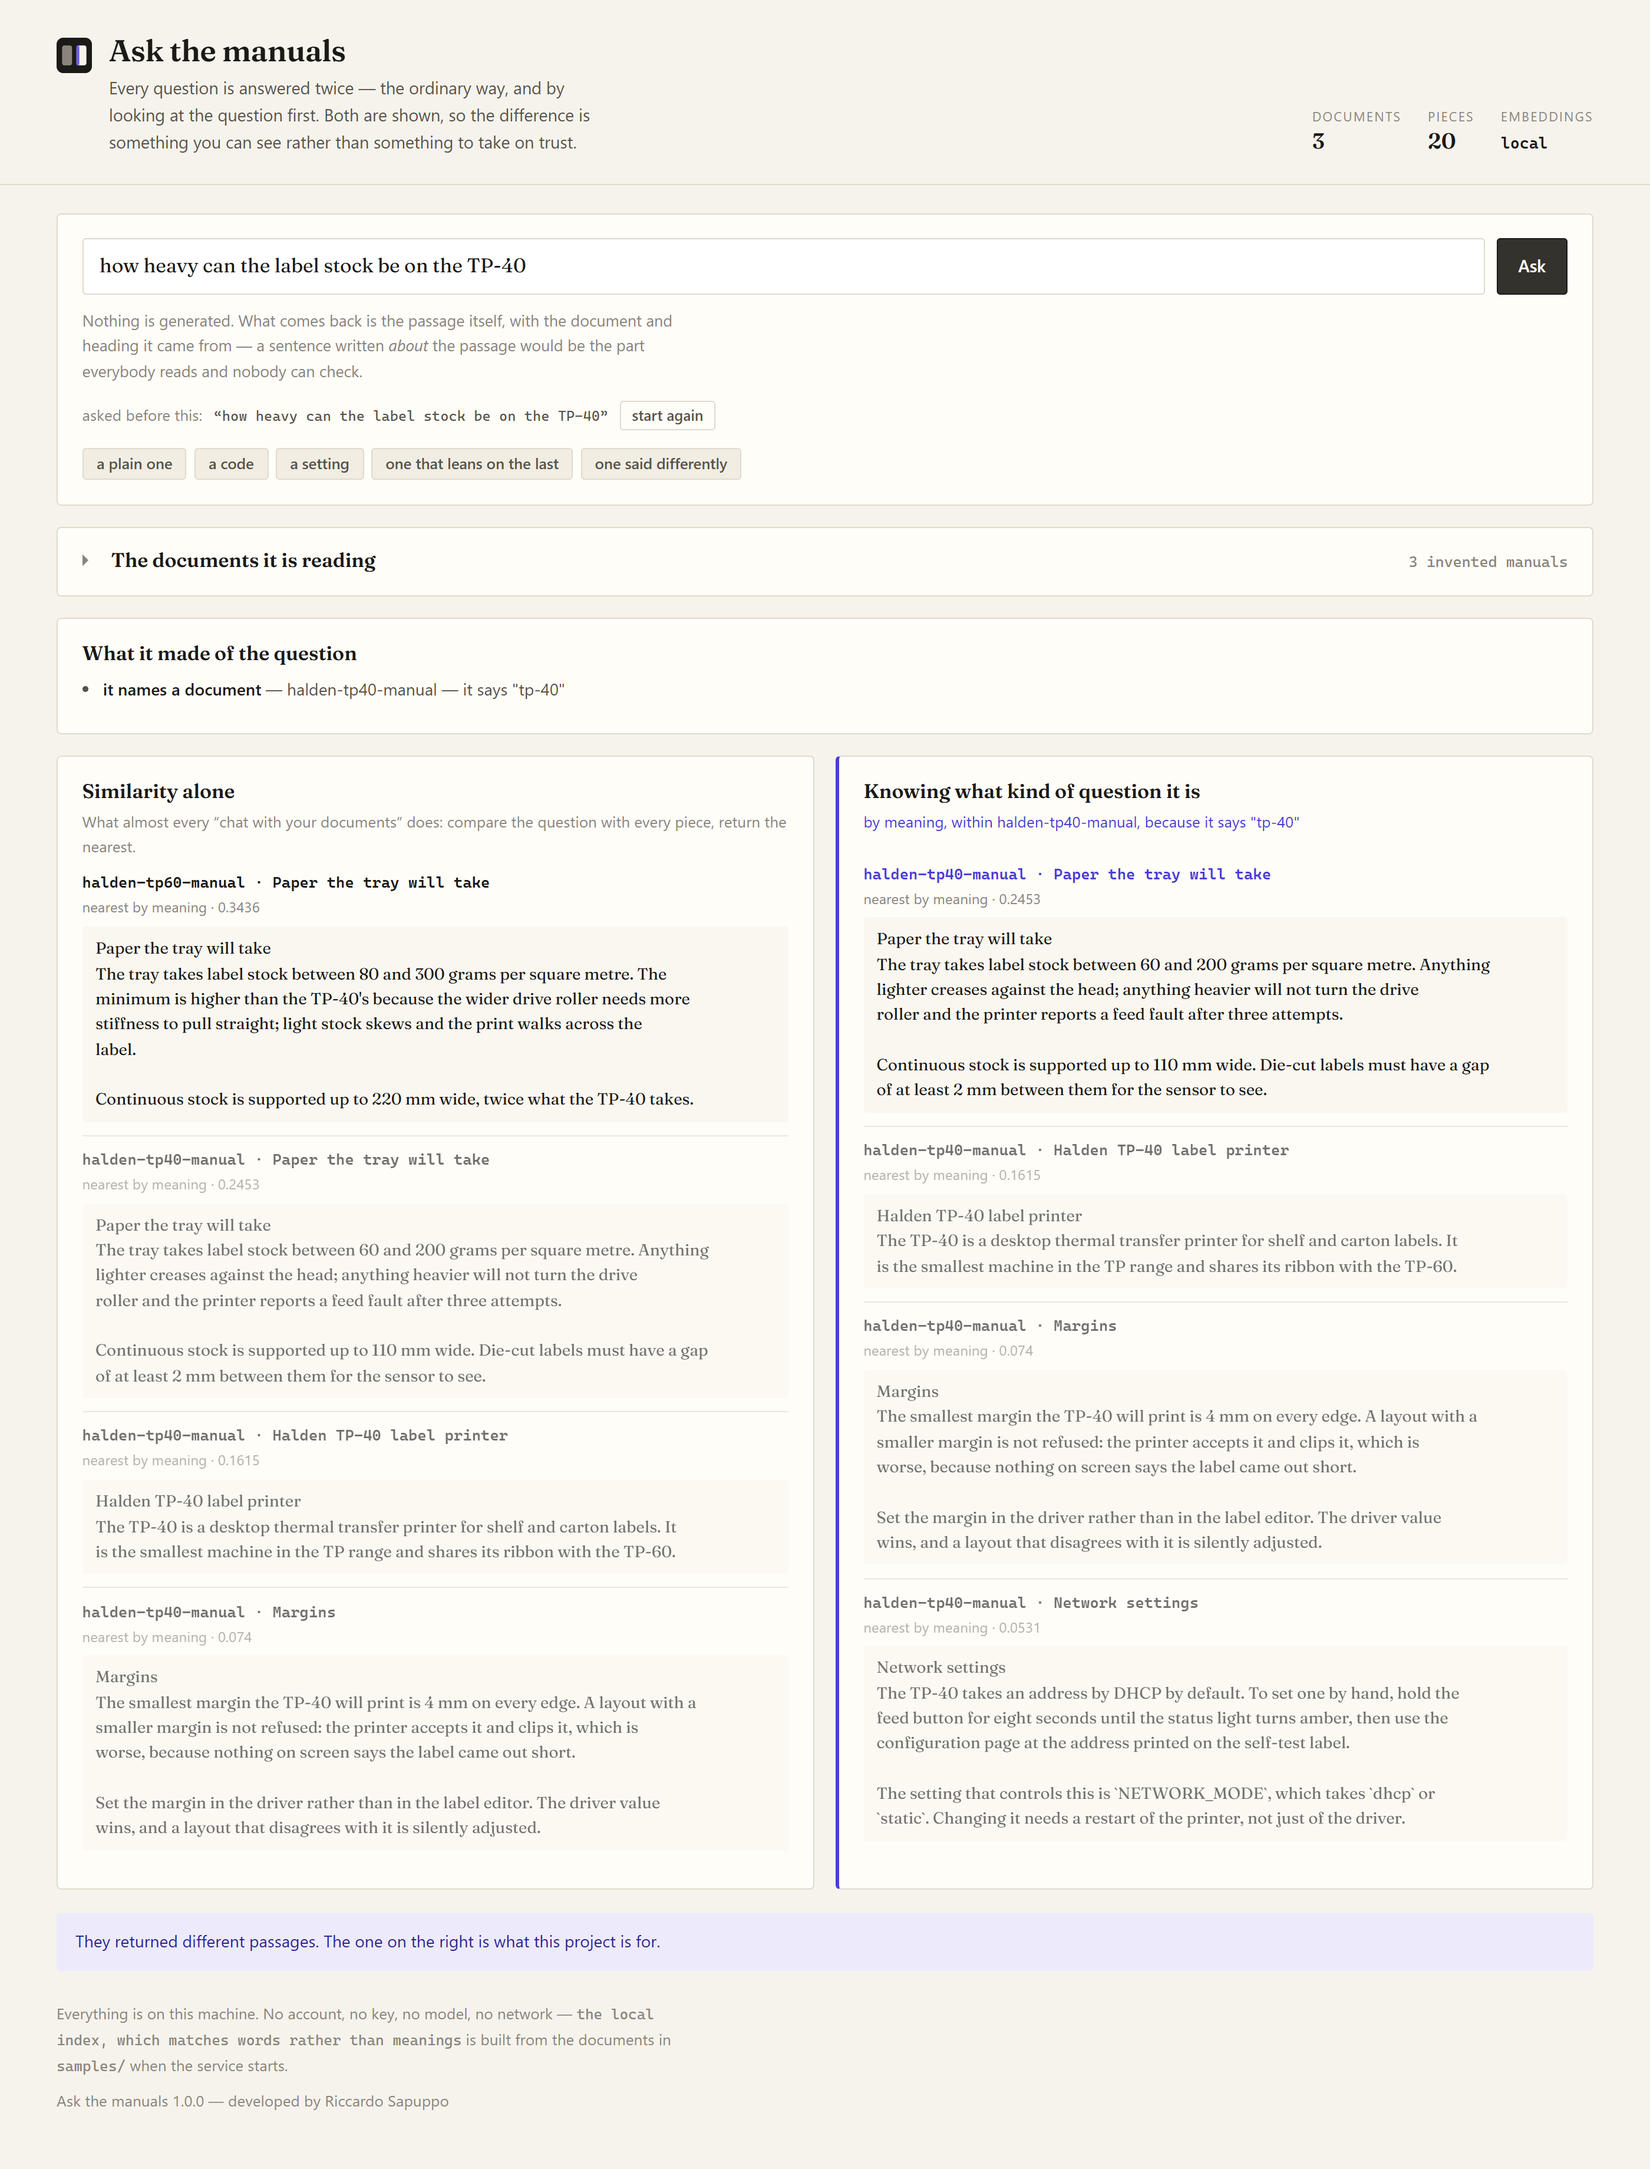
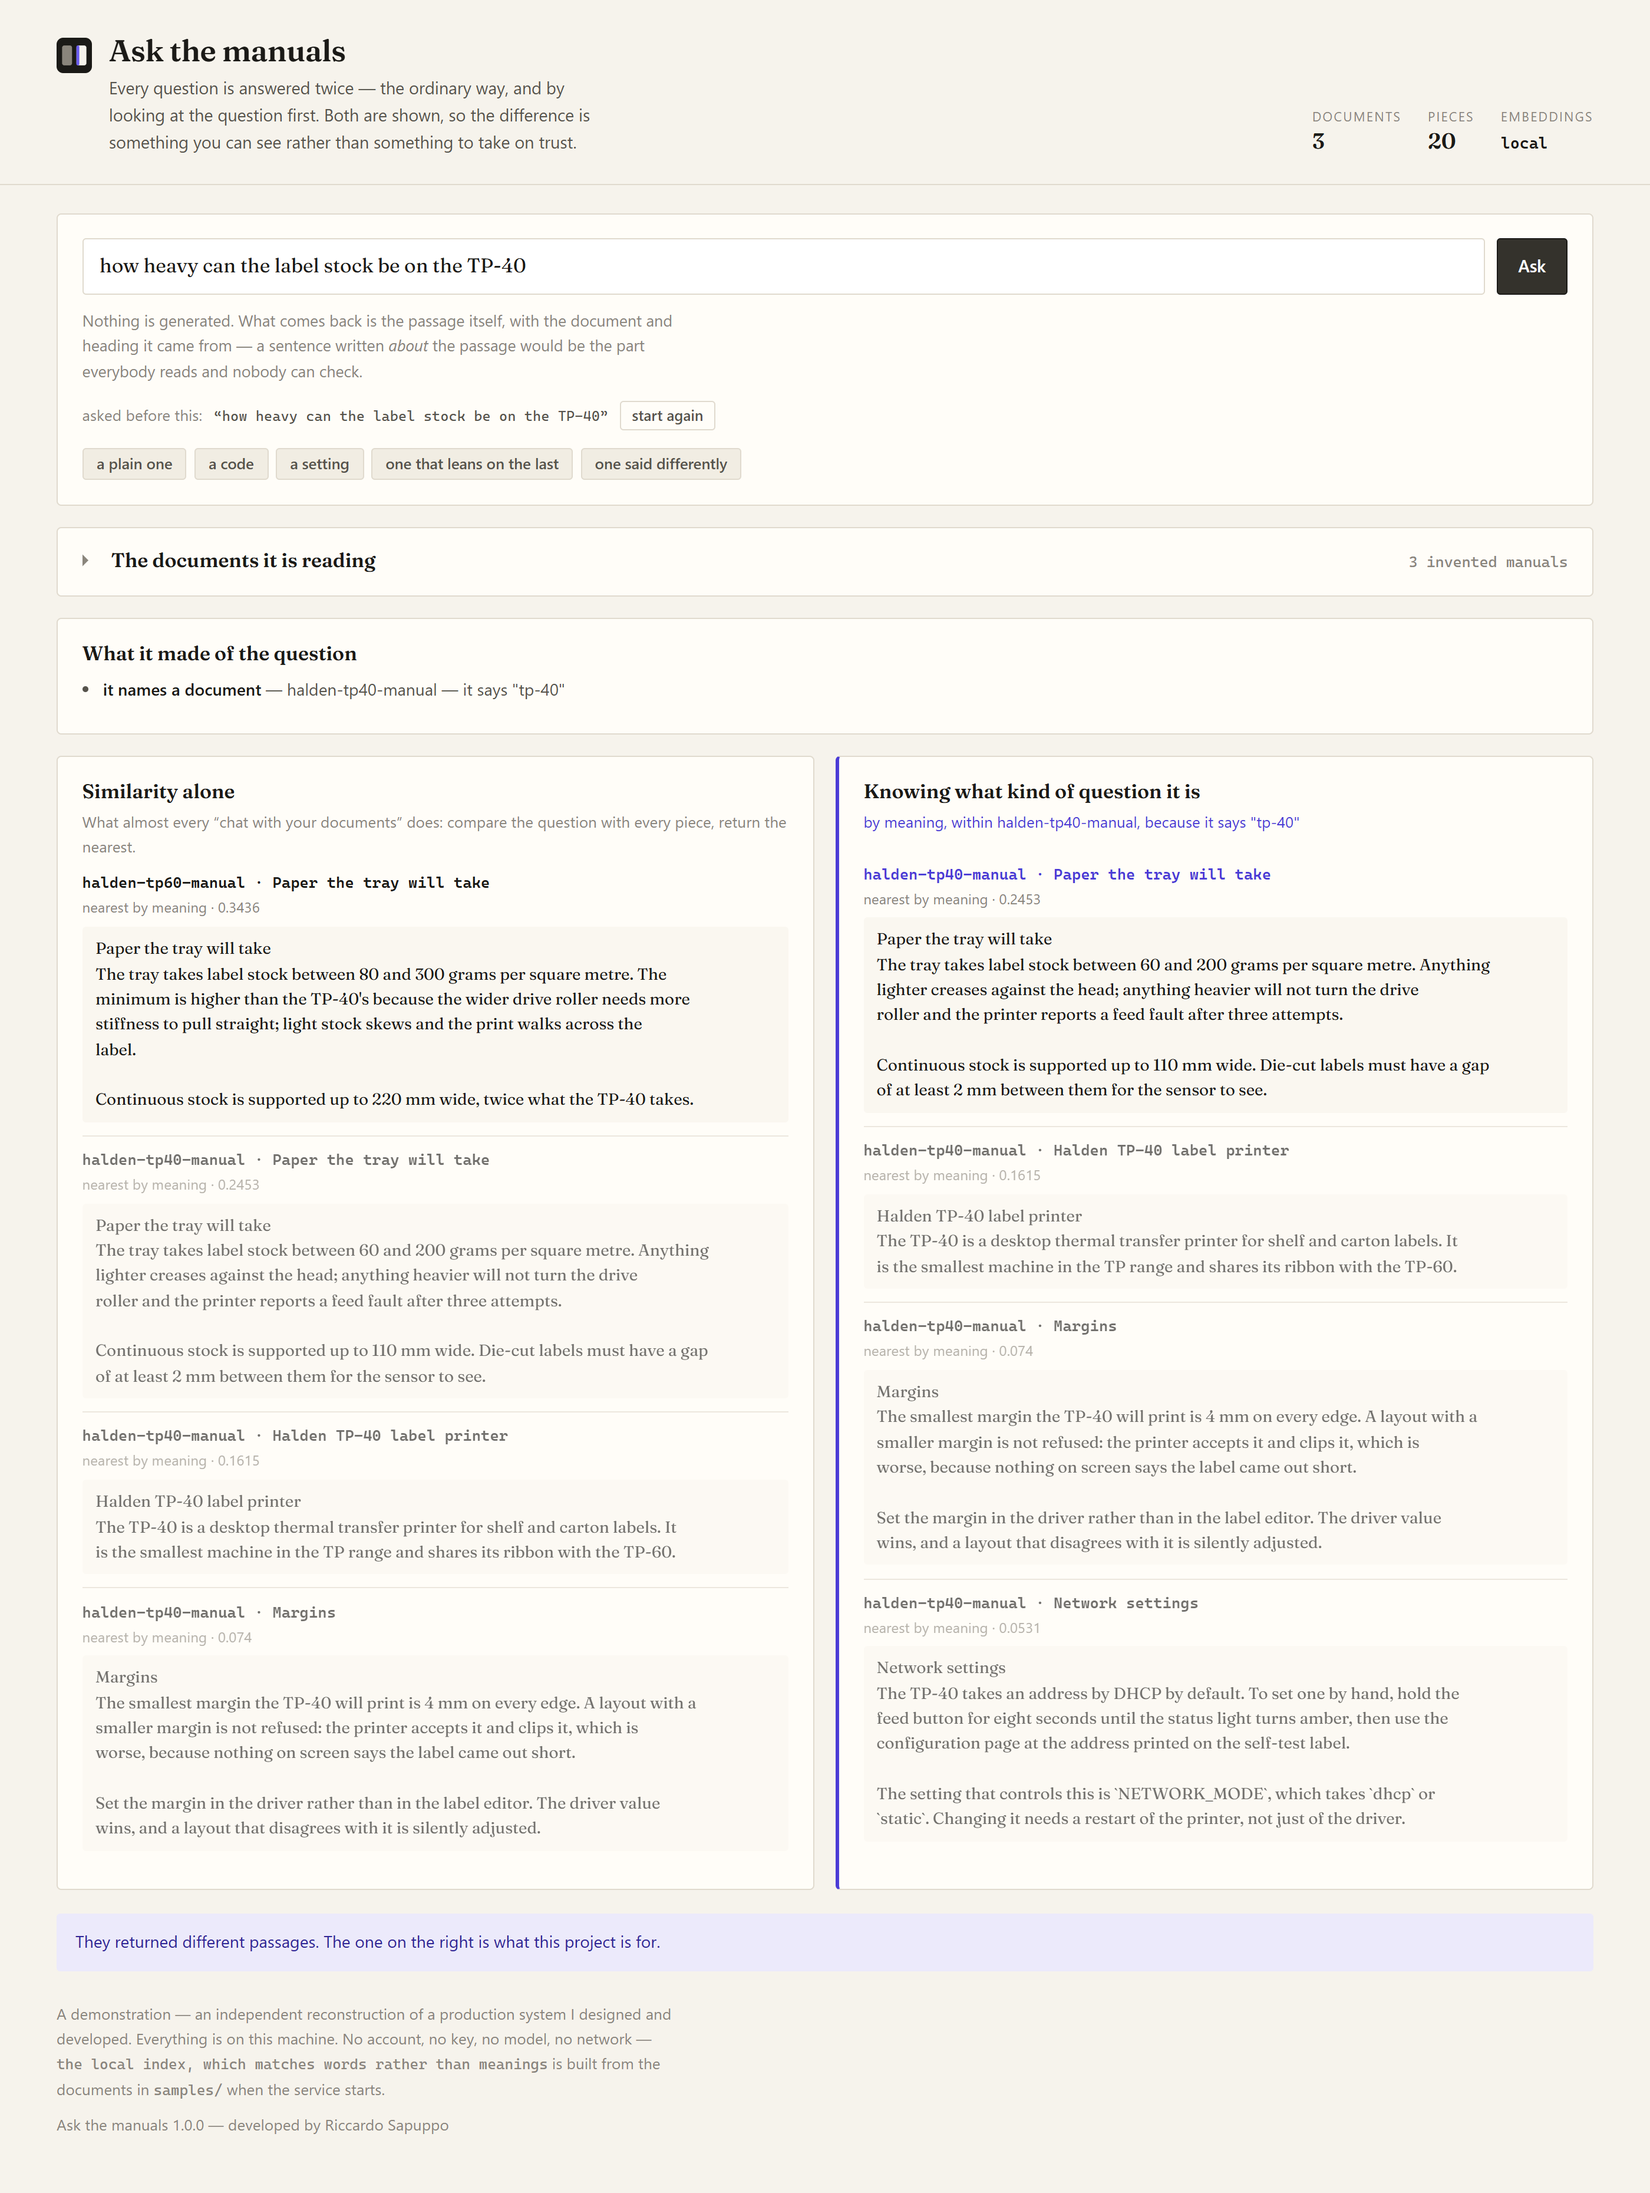
What this reconstructs, and what is not in it
The work was here and its origin was not. This adds the notice: a
reconstruction of a production system, rebuilt because confidentiality and
intellectual property keep the original out of a public repository, with newly
written code and invented data.

The same notice stands in every repository in this portfolio, character for
character, and a check compares them rather than trusting that they still
match. A block nobody compares has drifted by the third edit, and reading it
does not catch that.

Where there is a page to open, the short form of it joins the footer note about
the invented data rather than adding a second one: somebody arriving from a
direct link never sees this file.

diff --git a/public/index.html b/public/index.html
@@ -140,9 +140,10 @@
 
     <footer>
       <p>
-        Everything is on this machine. No account, no key, no model, no network
-        — <code id="footer-embeddings">the local index</code> is built from the
-        documents in <code>samples/</code> when the service starts.
+        A demonstration — an independent reconstruction of a production system I
+        designed and developed. Everything is on this machine. No account, no key, no
+        model, no network — <code id="footer-embeddings">the local index</code> is
+        built from the documents in <code>samples/</code> when the service starts.
       </p>
       <p class="by">Ask the manuals 1.0.0 — developed by Riccardo Sapuppo</p>
     </footer>

diff --git a/README.md b/README.md
@@ -281,6 +281,19 @@ document rather than wholesale, and vectors that do not all have to fit in
 memory at once — none of which changes a line of the retrieval above, which is
 the point of it being in files of its own.
 
+## Production reconstruction
+
+This repository is an independent reconstruction of a production system I
+designed and developed.
+
+Confidentiality and intellectual property constraints mean the original cannot
+be published. It was rebuilt from scratch so it could be shown and run,
+preserving the core architecture, workflows and technical challenges of the
+production solution, with newly written code and fictional data.
+
+No proprietary source code, confidential data or client assets from the
+original system are included in this repository.
+
 ---
 
 ![The mark, at 16, 32 and 64 pixels](docs/the-mark.png)
